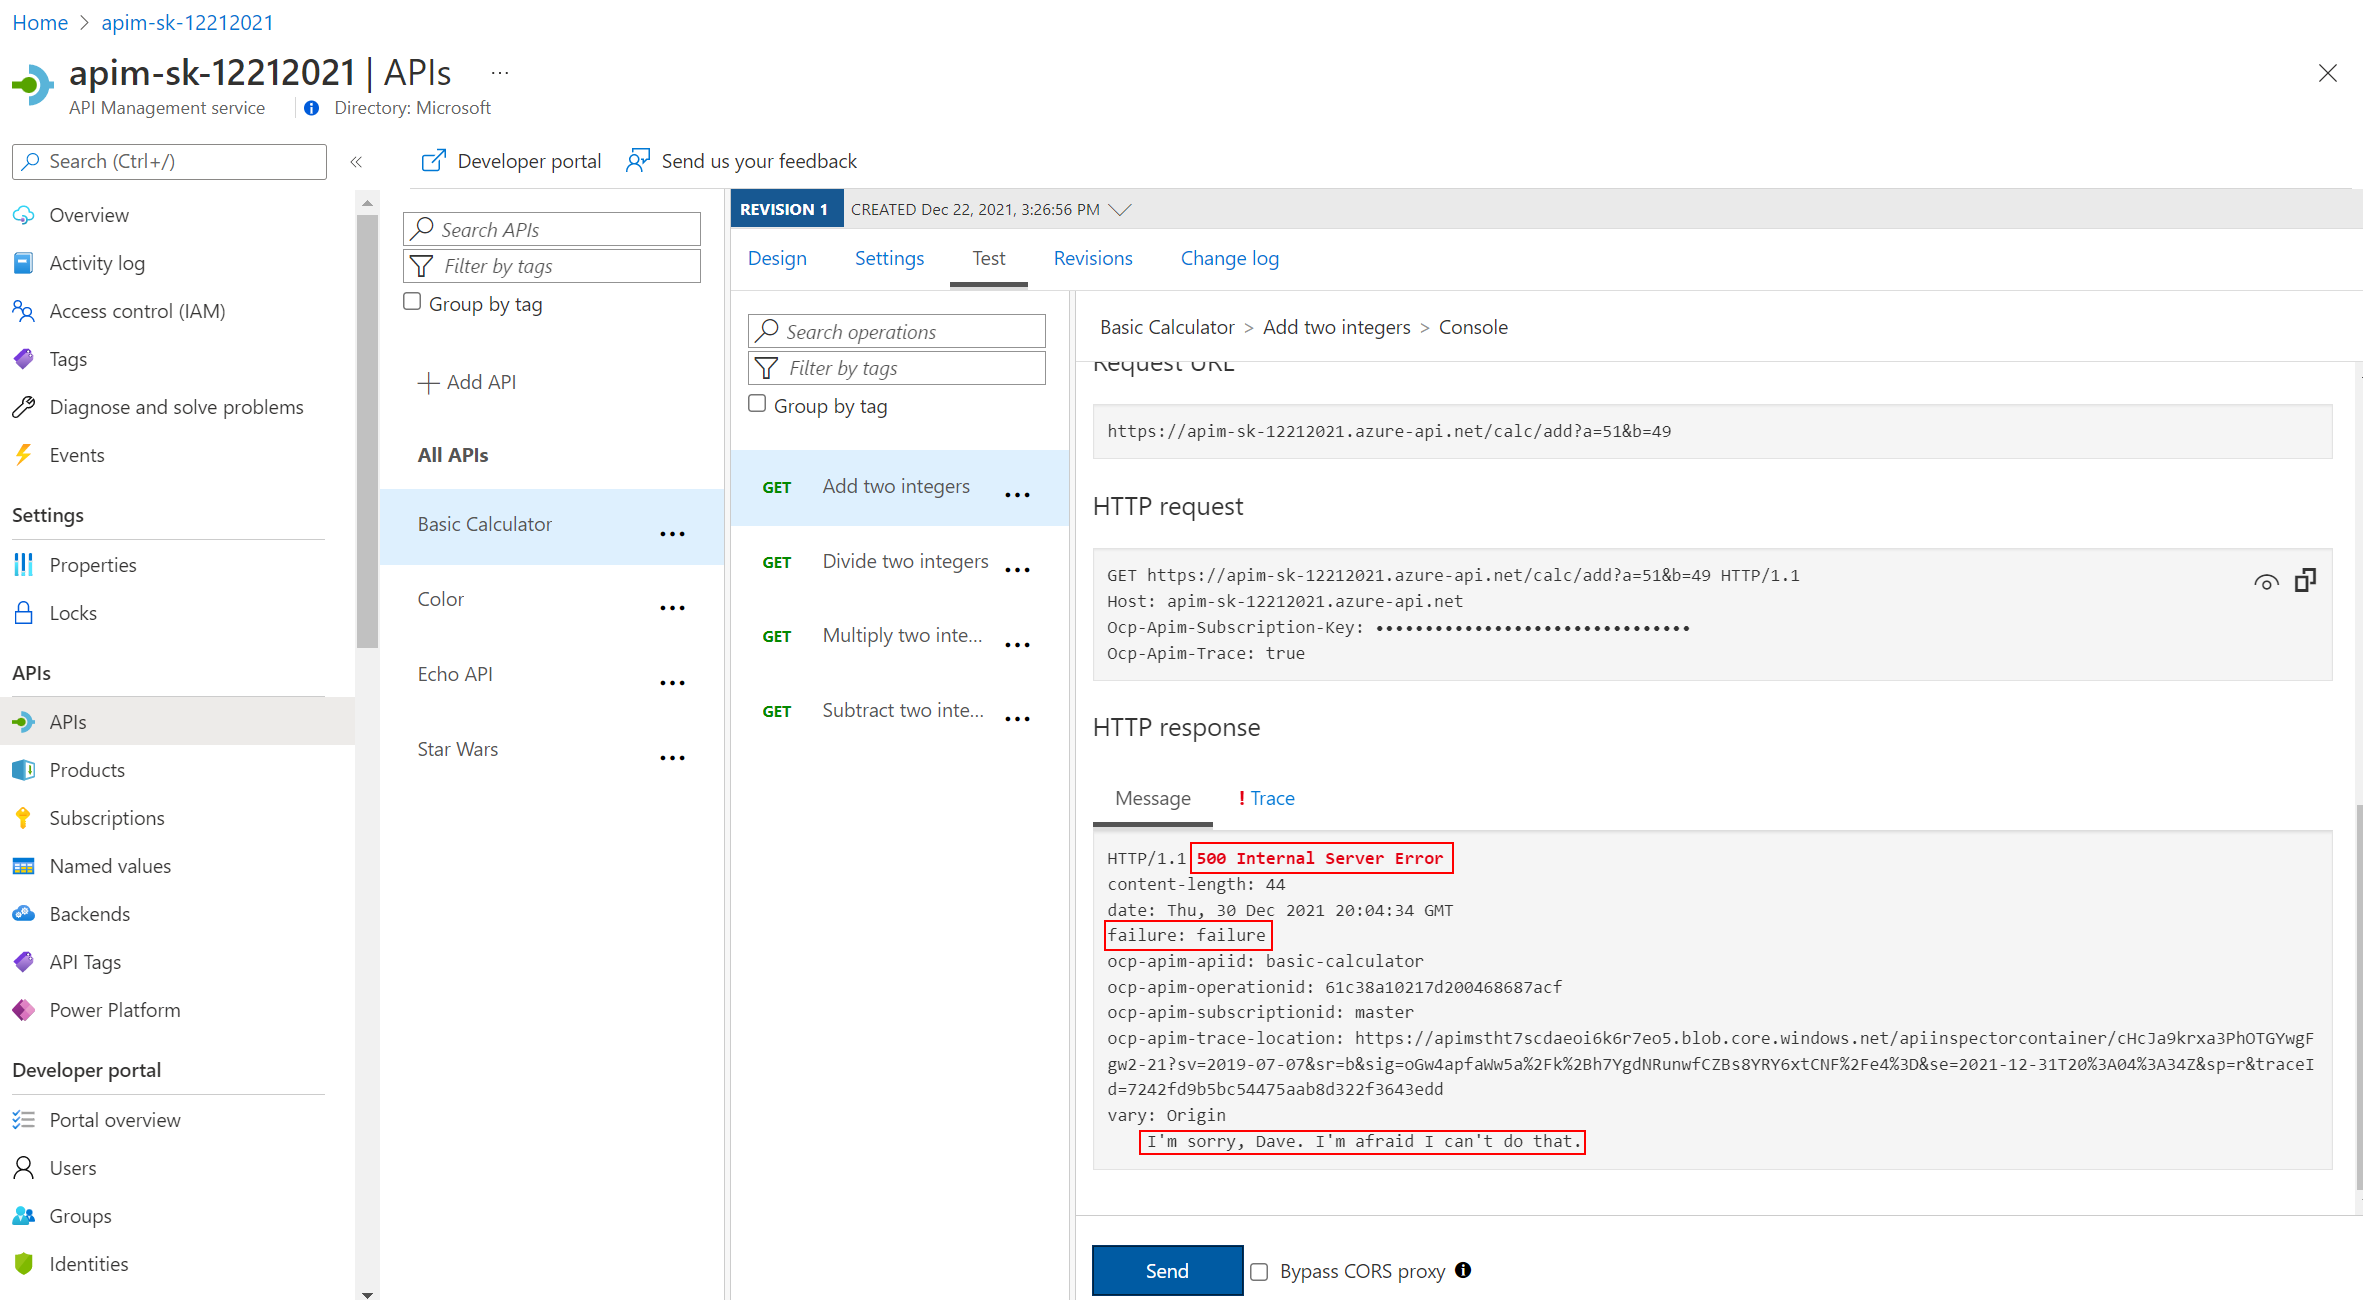
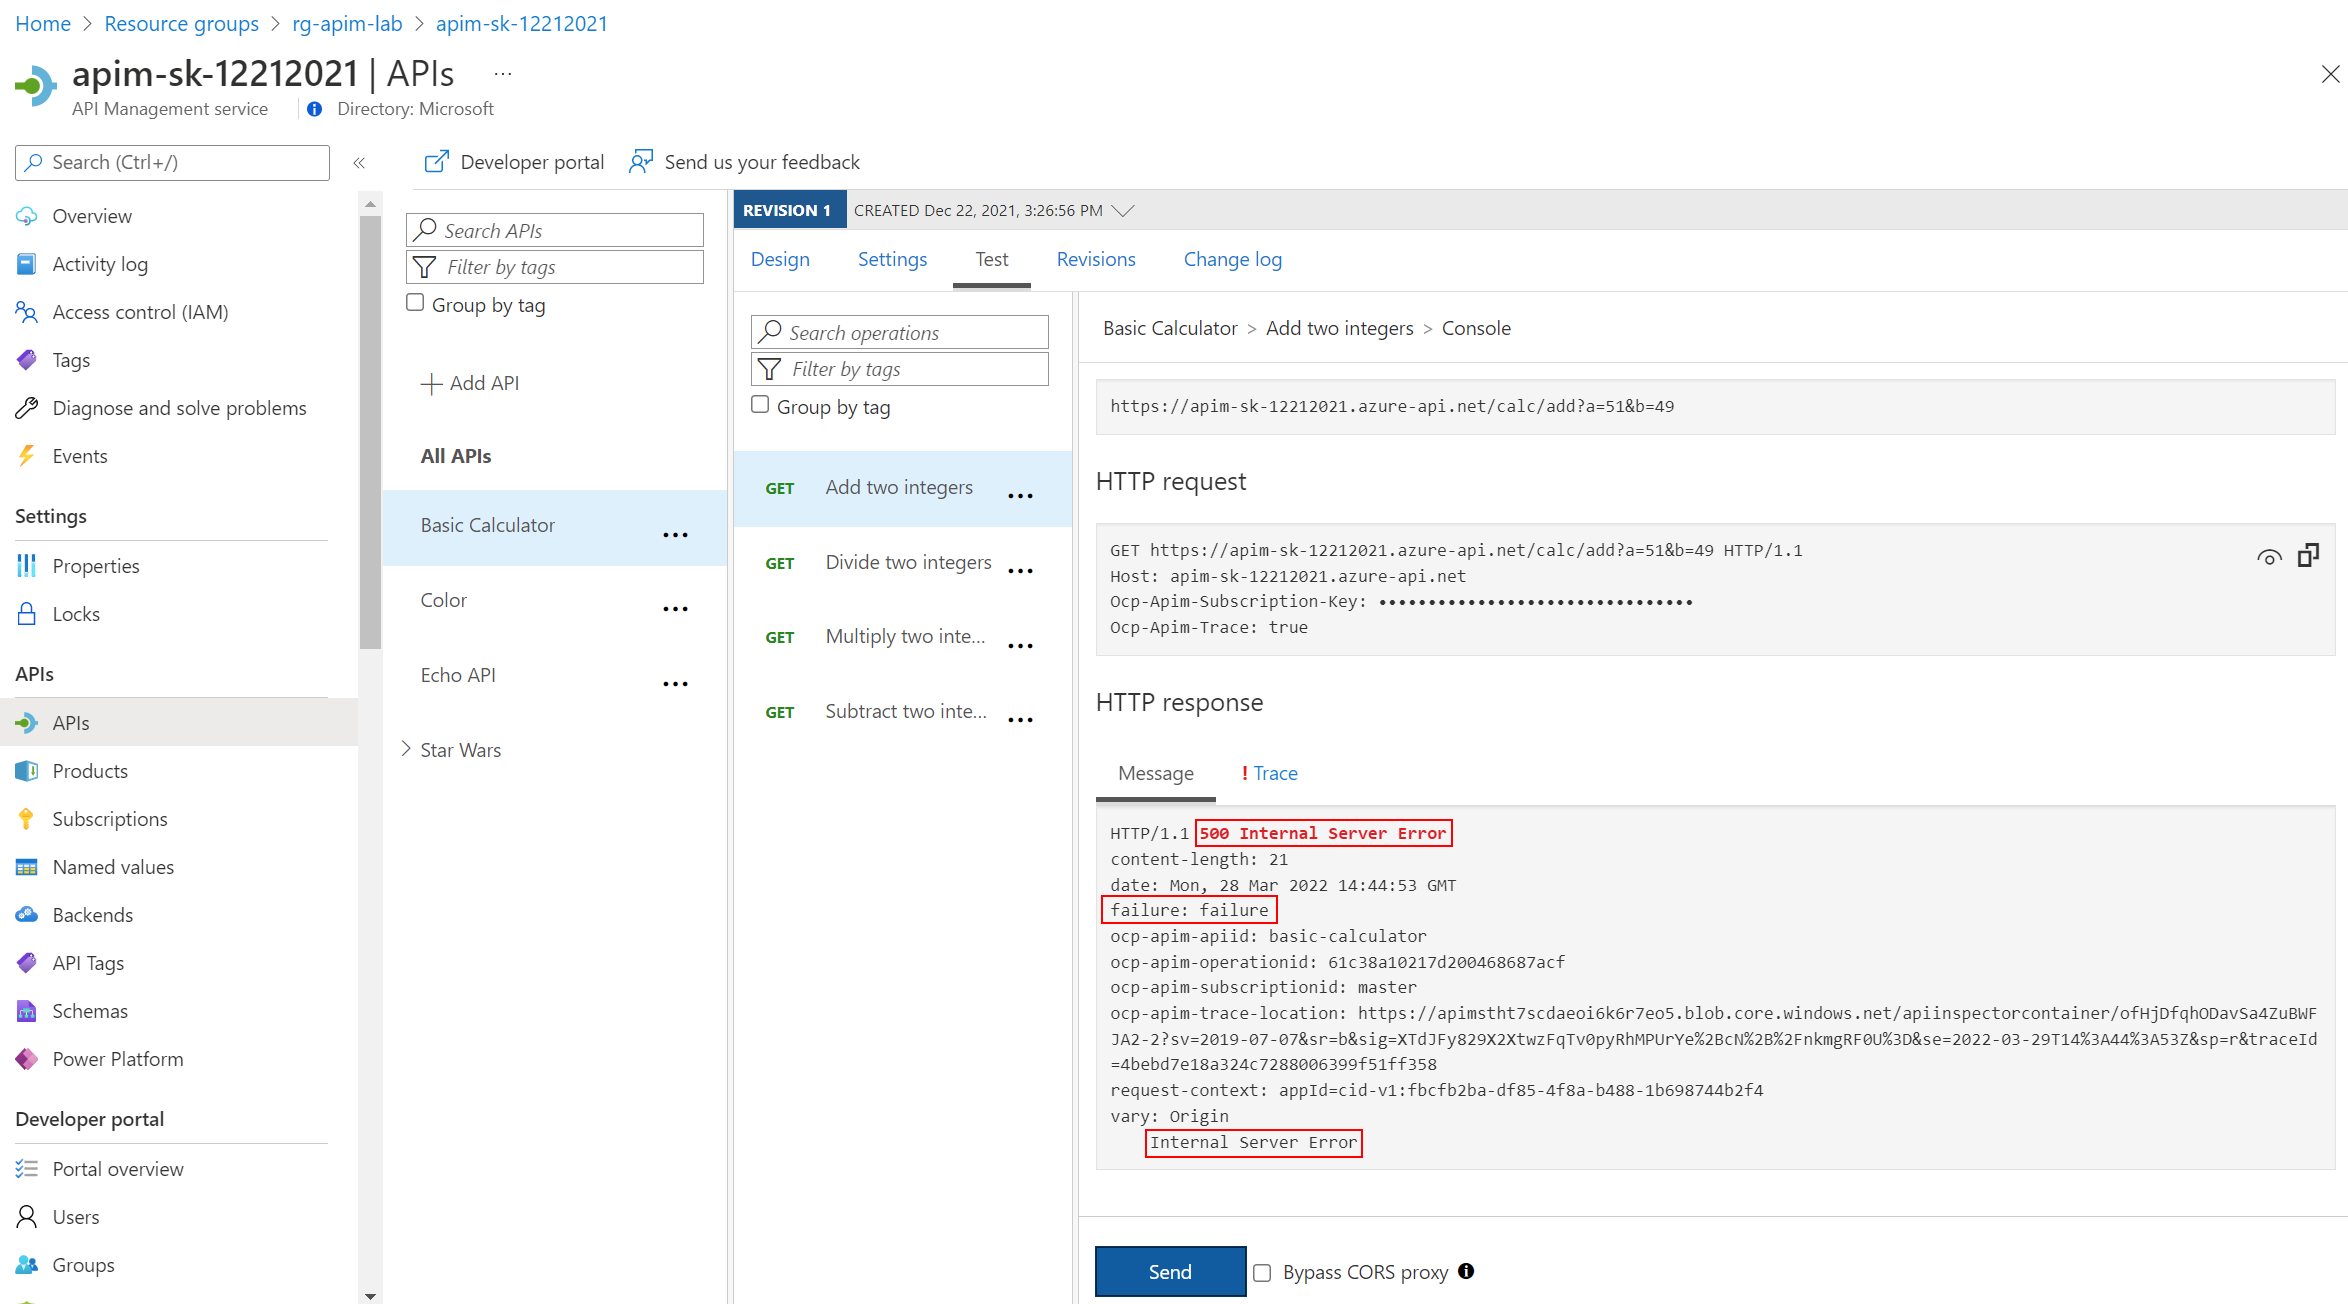
Abort processing changes (#80)
* Update the screenshot to match the copy in the lab

* Add Clean Up step

diff --git a/apim-lab/4-policyExpressions/apimanagement-4-7-Abort Processing.md b/apim-lab/4-policyExpressions/apimanagement-4-7-Abort Processing.md
@@ -36,3 +36,7 @@ The ability to terminate a response gracefully is of importance in a number of c
   ```
 
   ![APIM Policy Abort Response](../../assets/images/apim-policy-abort-response.png)
+
+  ### Clean Up
+
+  Now that you have seen how to gracefully terminate a request with a response, it is time to clean up the code to prevent a downstream impact in subsequent labs. **Please remove the `<choose>` logic above to let all requests flow again, then save the changes.**
